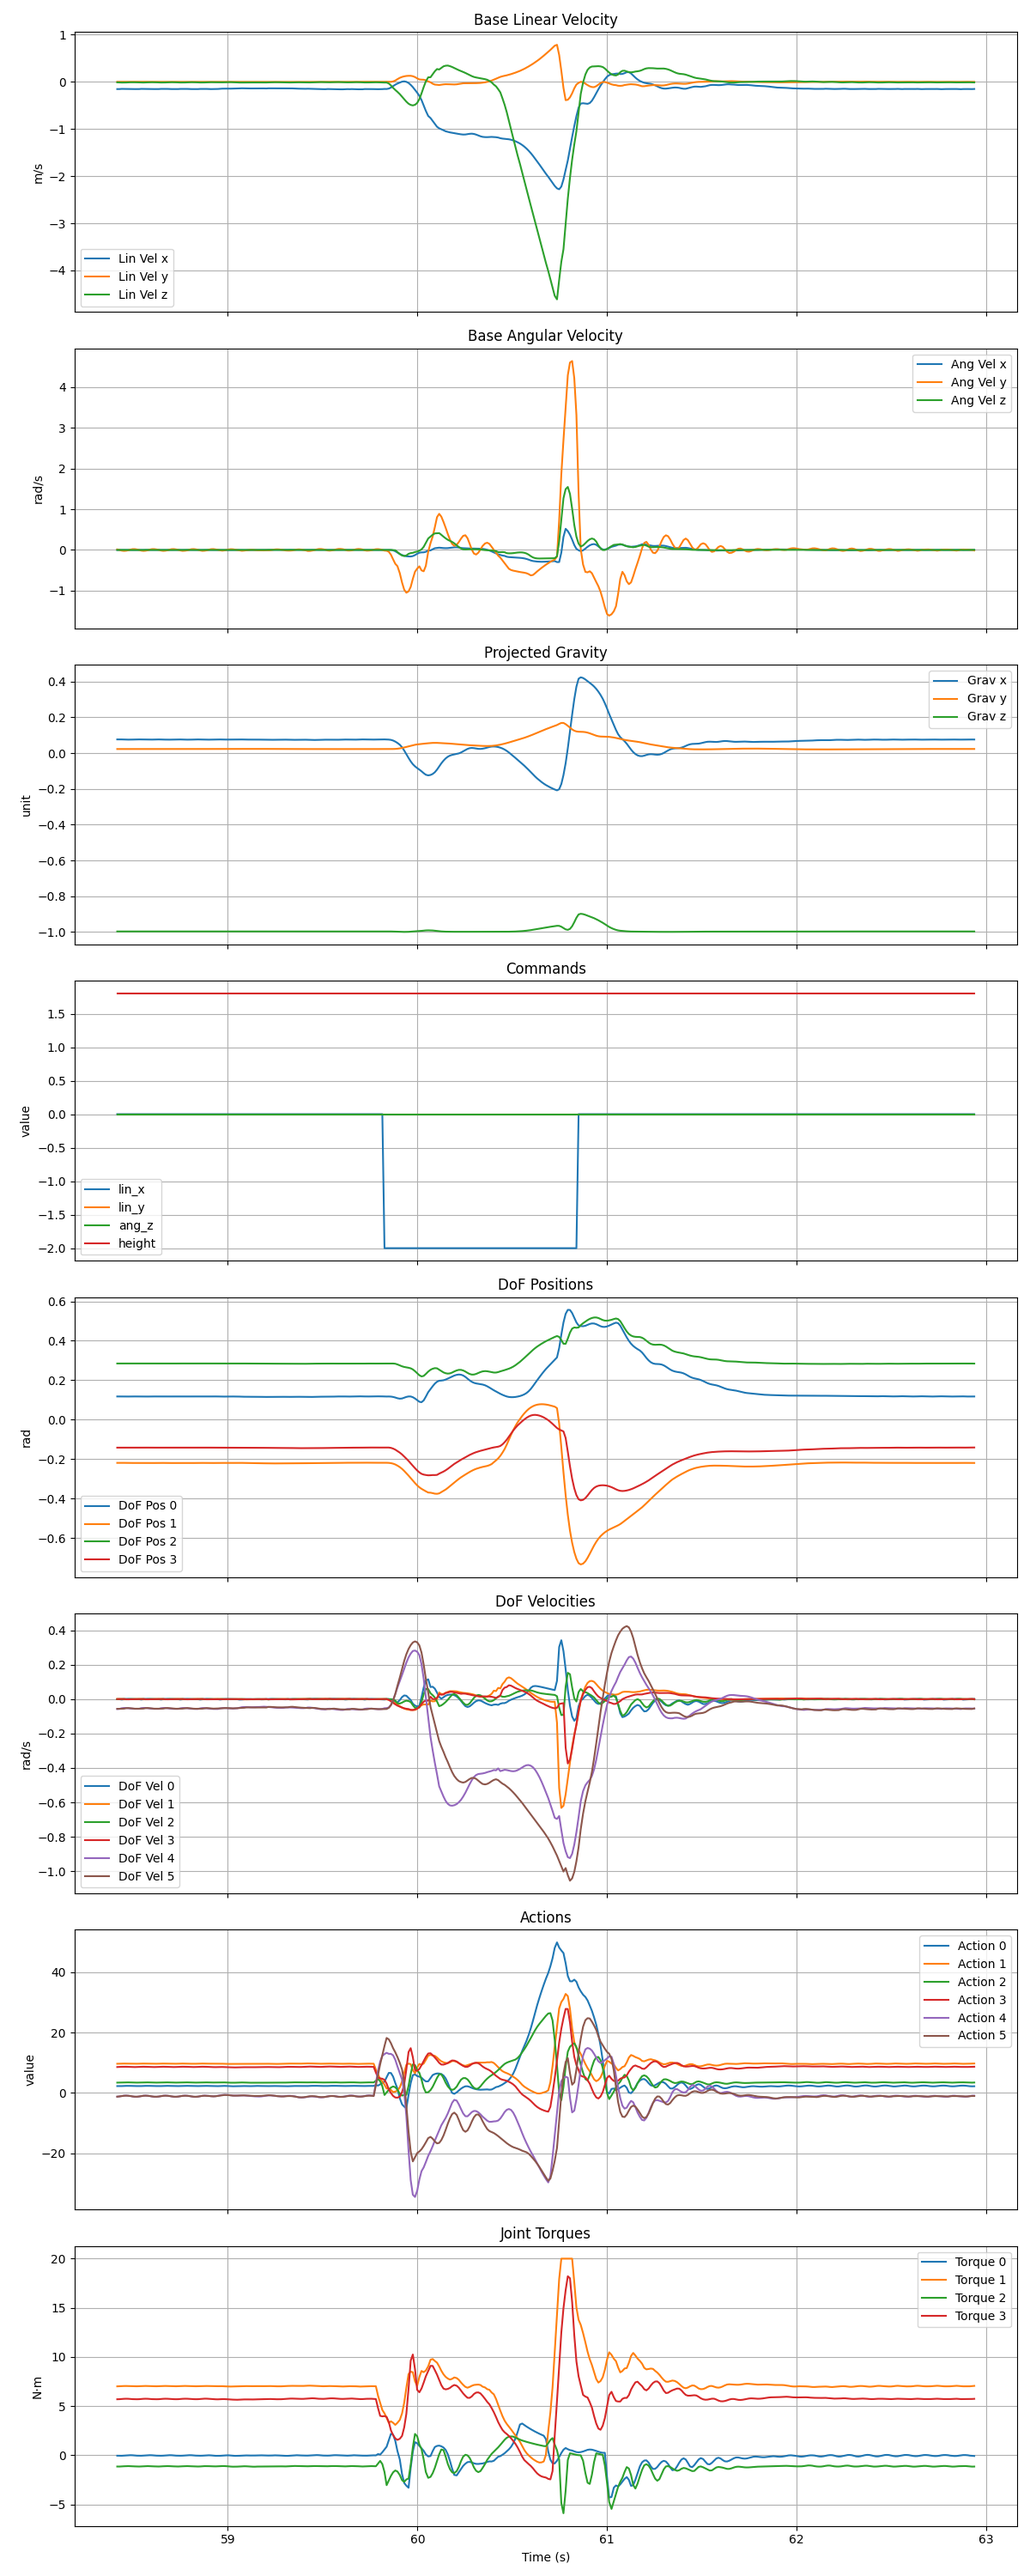
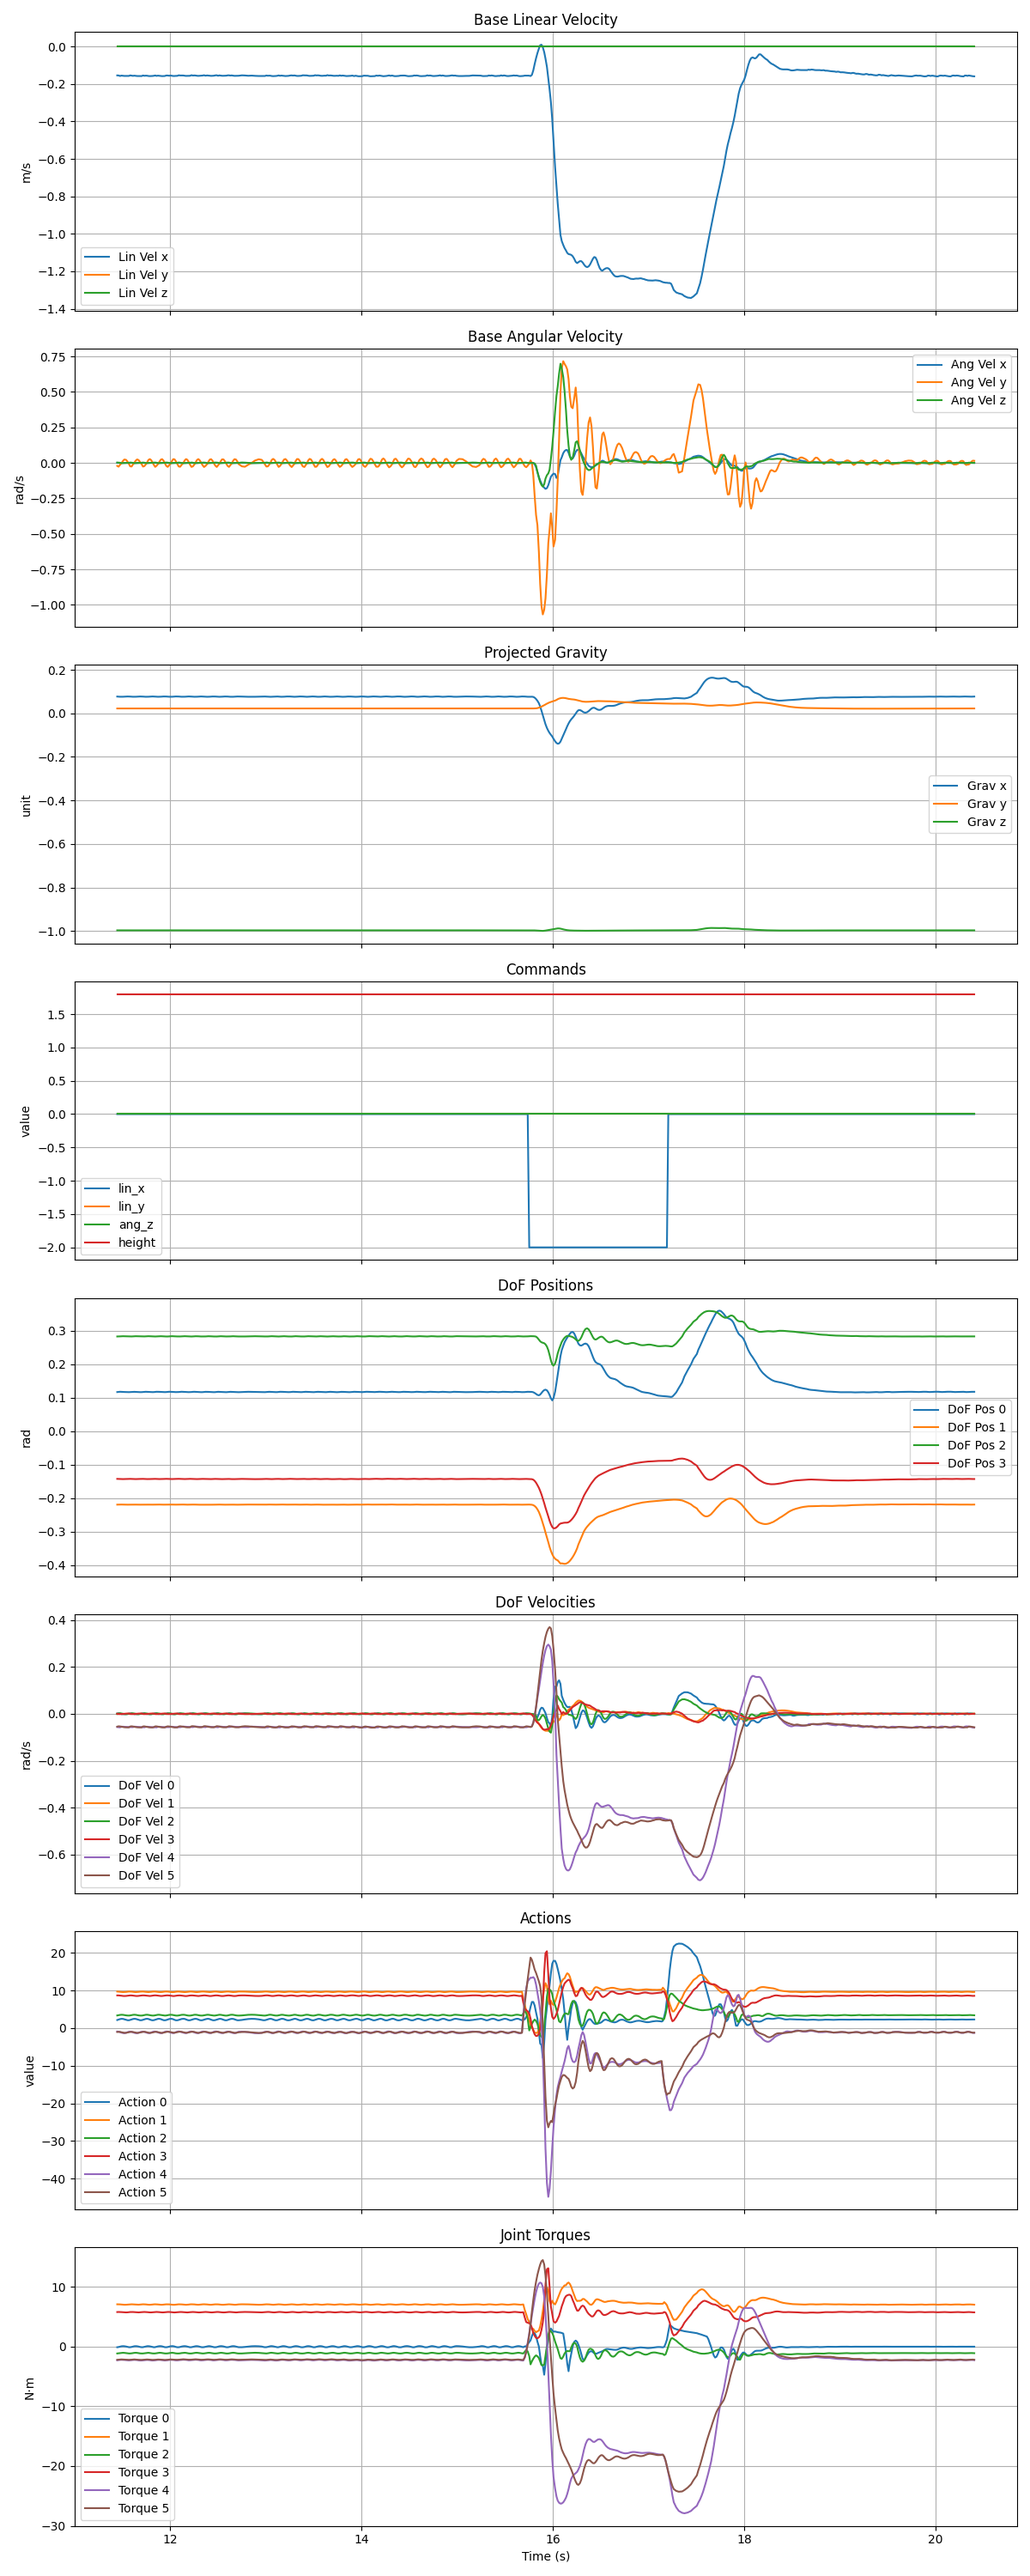
save

diff --git a/real2sim/test_motor.py b/real2sim/test_motor.py
@@ -1,0 +1,169 @@
+import sys
+import os
+import torch
+import mujoco
+import mujoco.viewer
+import time
+import argparse
+import pickle
+import numpy as np
+import matplotlib.pyplot as plt
+
+# 加载 mujoco 模型
+m = mujoco.MjModel.from_xml_path('scene_test.xml')
+d = mujoco.MjData(m)
+
+device = torch.device("cuda" if torch.cuda.is_available() else "cpu")
+
+def run_thigh(runing_time, process_time, test_radian_max, test_radian_min):
+    if runing_time < process_time:
+        runing_time += m.opt.timestep * 5
+        phase = np.tanh(runing_time / 3)
+        d.ctrl[2] = phase * test_radian_max + (1 - phase) * test_radian_min
+    elif runing_time < process_time * 2:
+        runing_time += m.opt.timestep * 5
+        phase = np.tanh((runing_time - process_time) / 3)
+        d.ctrl[2] = phase * test_radian_min + (1 - phase) * test_radian_max
+
+    return runing_time
+
+def run_calf(runing_time, process_time, test_radian_max, test_radian_min):
+    if runing_time < process_time:
+        runing_time += m.opt.timestep * 5
+        phase = np.tanh(runing_time / 3)
+        d.ctrl[3] = phase * test_radian_max + (1 - phase) * test_radian_min
+    else:
+        runing_time += m.opt.timestep * 5
+        phase = np.tanh((runing_time - process_time) / 3)
+        d.ctrl[3] = phase * test_radian_min + (1 - phase) * test_radian_max
+
+    return runing_time
+
+def test_wheel(max_speed, freq, runing_time, process_time):
+    if runing_time < process_time * 2:
+        velocity = max_speed * np.sin(2 * np.pi * freq * runing_time)
+        d.ctrl[4] = velocity
+    runing_time += m.opt.timestep * 5
+
+    return runing_time
+
+def plot(time_log, cmd_pos_log, actual_pos_log, torque_log):
+    plt.figure(figsize=(12, 8))
+    plt.subplot(2, 1, 1)
+    plt.plot(time_log, cmd_pos_log, label='Commanded Position', color='green', linestyle='--')
+    plt.plot(time_log, actual_pos_log, label='Actual Position', color='blue')
+    plt.xlabel('Time (s)')
+    plt.ylabel('Position (rad)')
+    plt.title('Commanded vs Actual Position')
+    plt.legend()
+    plt.grid(True)
+    
+    plt.subplot(2, 1, 2)
+    plt.plot(time_log, torque_log, label='Torque', color='red')
+    plt.xlabel('Time (s)')
+    plt.ylabel('Torque (N·m)')
+    plt.title('Torque')
+    plt.legend()
+    plt.grid(True)
+    
+    plt.tight_layout()
+    plt.show()
+
+def plot_wheel_motor(time_log, cmd_vel_log, actual_vel_log, torque_log):
+    plt.figure(figsize=(12, 8))
+    plt.subplot(2, 1, 1)
+    plt.plot(time_log, cmd_vel_log, label='Commanded velocity', color='green', linestyle='--')
+    plt.plot(time_log, actual_vel_log, label='Actual velocity', color='blue')
+    plt.xlabel('Time (s)')
+    plt.ylabel('velocity (rad/s)')
+    plt.title('Commanded vs Actual velocity')
+    plt.legend()
+    plt.grid(True)
+    
+    plt.subplot(2, 1, 2)
+    plt.plot(time_log, torque_log, label='Torque', color='green')
+    plt.xlabel('Time (s)')
+    plt.ylabel('Torque (N·m)')
+    plt.title('Torque')
+    plt.legend()
+    plt.grid(True)
+    
+    plt.tight_layout()
+    plt.show()
+
+def main(args):
+    process_time = 8
+    test_radian_max = 1.5
+    test_radian_min = 0
+    running_time = 0
+    log_time = 0
+
+    max_velocity = 50
+    frequency = 0.125
+    
+    # 用于记录数据
+    time_log = []
+    cmd_pos_log = []
+    actual_pos_log = []
+    cmd_vel_log = []
+    actual_vel_log = []
+    torque_log = []
+
+    mujoco.mj_resetDataKeyframe(m, d, 0)  # 0 是關鍵幀的索引
+    mujoco.mj_forward(m, d)
+    
+    with mujoco.viewer.launch_passive(m, d) as viewer:
+        # Run simulation for one cycle of process time
+        while viewer.is_running():
+            if args.part == 'thigh':
+                running_time = run_thigh(running_time, process_time, test_radian_max, test_radian_min)
+                log_time += m.opt.timestep * 5
+                time_log.append(log_time)
+                cmd_pos_log.append(d.ctrl[2])
+                actual_pos_log.append(d.sensordata[2])
+                torque_log.append(d.sensordata[12])
+                end_time = process_time*2
+            elif args.part == 'calf':
+                running_time = run_calf(running_time, process_time, -test_radian_max, test_radian_min)
+                log_time += m.opt.timestep * 5
+                time_log.append(log_time)
+                cmd_pos_log.append(d.ctrl[3])
+                actual_pos_log.append(d.sensordata[3])
+                torque_log.append(d.sensordata[13])
+                end_time = process_time*2
+            elif args.part == 'wheel':
+                running_time = test_wheel(max_velocity, frequency, running_time, process_time)
+                time_log.append(running_time)
+                cmd_vel_log.append(d.ctrl[4])
+                actual_vel_log.append(d.sensordata[8])
+                torque_log.append(d.sensordata[14])
+                end_time = process_time * 2 
+            if running_time > end_time:
+                break
+            
+            # 执行一步模拟
+            step_start = time.time()
+            for i in range(5):
+                mujoco.mj_step(m, d)
+            # 更新渲染
+            viewer.sync()
+            # 同步时间
+            time_until_next_step = m.opt.timestep * 5 - (time.time() - step_start)
+            if time_until_next_step > 0:
+                time.sleep(time_until_next_step)
+        
+        # Close the viewer
+        viewer.close()
+
+    # Plot results after simulation
+    if args.part in ['thigh', 'calf']:
+        plot(time_log, cmd_pos_log, actual_pos_log, torque_log)
+    else:  # wheel
+        plot_wheel_motor(time_log, cmd_vel_log, actual_vel_log, torque_log)
+
+if __name__ == "__main__":
+    parser = argparse.ArgumentParser(description="Test specific parts of the robot in MuJoCo.")
+    parser.add_argument('--part', type=str, choices=['thigh', 'calf', 'wheel'], default='wheel',
+                        help="Part of the robot to test: 'thigh', 'calf', or 'wheel'.")
+    args = parser.parse_args()
+    main(args)

diff --git a/csl_wheel_legged/csl_wheel_legged_train.py b/csl_wheel_legged/csl_wheel_legged_train.py
@@ -8,7 +8,6 @@ from rsl_rl.runners import OnPolicyRunner
 
 import genesis as gs # type: ignore
 
-
 def get_train_cfg(exp_name, max_iterations):
 
     train_cfg_dict = {
@@ -87,22 +86,28 @@ def get_cfgs():
         },
         "safe_force": {
             "L_hip_joint": 0.0,      # Fixed, no force needed
-            "L_thigh_joint": 30.0,
-            "L_calf_joint": 30.0,
+            "L_thigh_joint": 20.0,
+            "L_calf_joint": 20.0,
             "R_hip_joint": 0.0,      # Fixed, no force needed
-            "R_thigh_joint": 30.0,
-            "R_calf_joint": 30.0,
-            "L_wheel_joint": 30.0,
-            "R_wheel_joint": 30.0
+            "R_thigh_joint": 20.0,
+            "R_calf_joint": 20.0,
+            "L_wheel_joint": 3,
+            "R_wheel_joint": 3
         },
         "base_init_pos": {"urdf": [0.0, 0.0, 0.4]},  # Adjusted height (see below)
-        "joint_kp": 10.0,
-        "joint_kd": 0.2,
-        "wheel_kp": 15.0,
+        "joint_kp": 15,
+        "joint_kd": 0.3,
+        "wheel_kp": 0.0,
         "wheel_kd": 0.3,
-        "damping": 2,
+        "damping": 0.01,
         "stiffness": 0,
-        "armature": 0.2,
+        "armature": 0.01,
+        "calf_damping": 0.1,
+        "calf_stiffness": 0,
+        "calf_armature": 0.01,
+        "wheel_damping": 0.01,
+        "wheel_stifness": 0,
+        "wheel_armature": 0.01,
         "termination_if_roll_greater_than": 20,  # Degrees
         "termination_if_pitch_greater_than": 20,
         "termination_if_base_connect_plane_than": True,
@@ -206,7 +211,7 @@ def get_cfgs():
 
 def main():
     parser = argparse.ArgumentParser()
-    parser.add_argument("-e", "--exp_name", type=str, default="csl_wheel-legged-walking-v11")
+    parser.add_argument("-e", "--exp_name", type=str, default="csl_wheel-legged-walking-v12")
     parser.add_argument("-B", "--num_envs", type=int, default=4096)
     parser.add_argument("--max_iterations", type=int, default=15000)
     args = parser.parse_args()

diff --git a/sim2sim/csl_gs2mj.py b/sim2sim/csl_gs2mj.py
@@ -74,14 +74,17 @@ def get_obs(env_cfg, obs_scales, actions, default_dof_pos, commands=[0.0, 0.0, 0
     dof_torque = np.zeros(env_cfg["num_actions"])
     for i, dof_name in enumerate(env_cfg["dof_names"]):
         dof_torque[i] = get_sensor_data(dof_name+"_t")[0]
-        if i==3:
-            break
+
 
     cmds = torch.tensor(commands, device=device, dtype=torch.float32)
 
+    lin_vel_scales = torch.tensor([2.0, 0.0, 0.0], device=device, dtype=torch.float32)
+    scaled_base_lin_vel = base_lin_vel * lin_vel_scales
+
     return torch.cat(
         [
-            base_lin_vel * obs_scales["lin_vel"],  # 3
+            # base_lin_vel * obs_scales["lin_vel"],  # 3
+            scaled_base_lin_vel,
             base_ang_vel * obs_scales["ang_vel"],  # 3
             projected_gravity,  # 3
             cmds * commands_scale,  # 4
@@ -146,7 +149,7 @@ def main():
             
             actions = loaded_policy(obs_buf)
             actions = torch.clip(actions, -env_cfg["clip_actions"], env_cfg["clip_actions"])
-            slice_obs_buf, dof_torque = get_obs(env_cfg=env_cfg, obs_scales=obs_cfg["obs_scales"],
+            slice_obs_buf , dof_torque = get_obs(env_cfg=env_cfg, obs_scales=obs_cfg["obs_scales"],
                                     actions=actions, default_dof_pos=default_dof_pos, commands=commands)
             slice_obs_buf = slice_obs_buf.unsqueeze(0)
             obs_buf = torch.cat([history_obs_buf, slice_obs_buf], dim=0).view(-1)

diff --git a/sim2sim/datalogger.py b/sim2sim/datalogger.py
@@ -113,7 +113,7 @@ class DataLogger:
         axes[6].grid(True)
 
         # 8. Torques
-        for i in range(4):
+        for i in range(6):
             axes[7].plot(timestamps, torques[:, i], label=f'Torque {i}')
         axes[7].set_title('Joint Torques')
         axes[7].set_xlabel('Time (s)')
